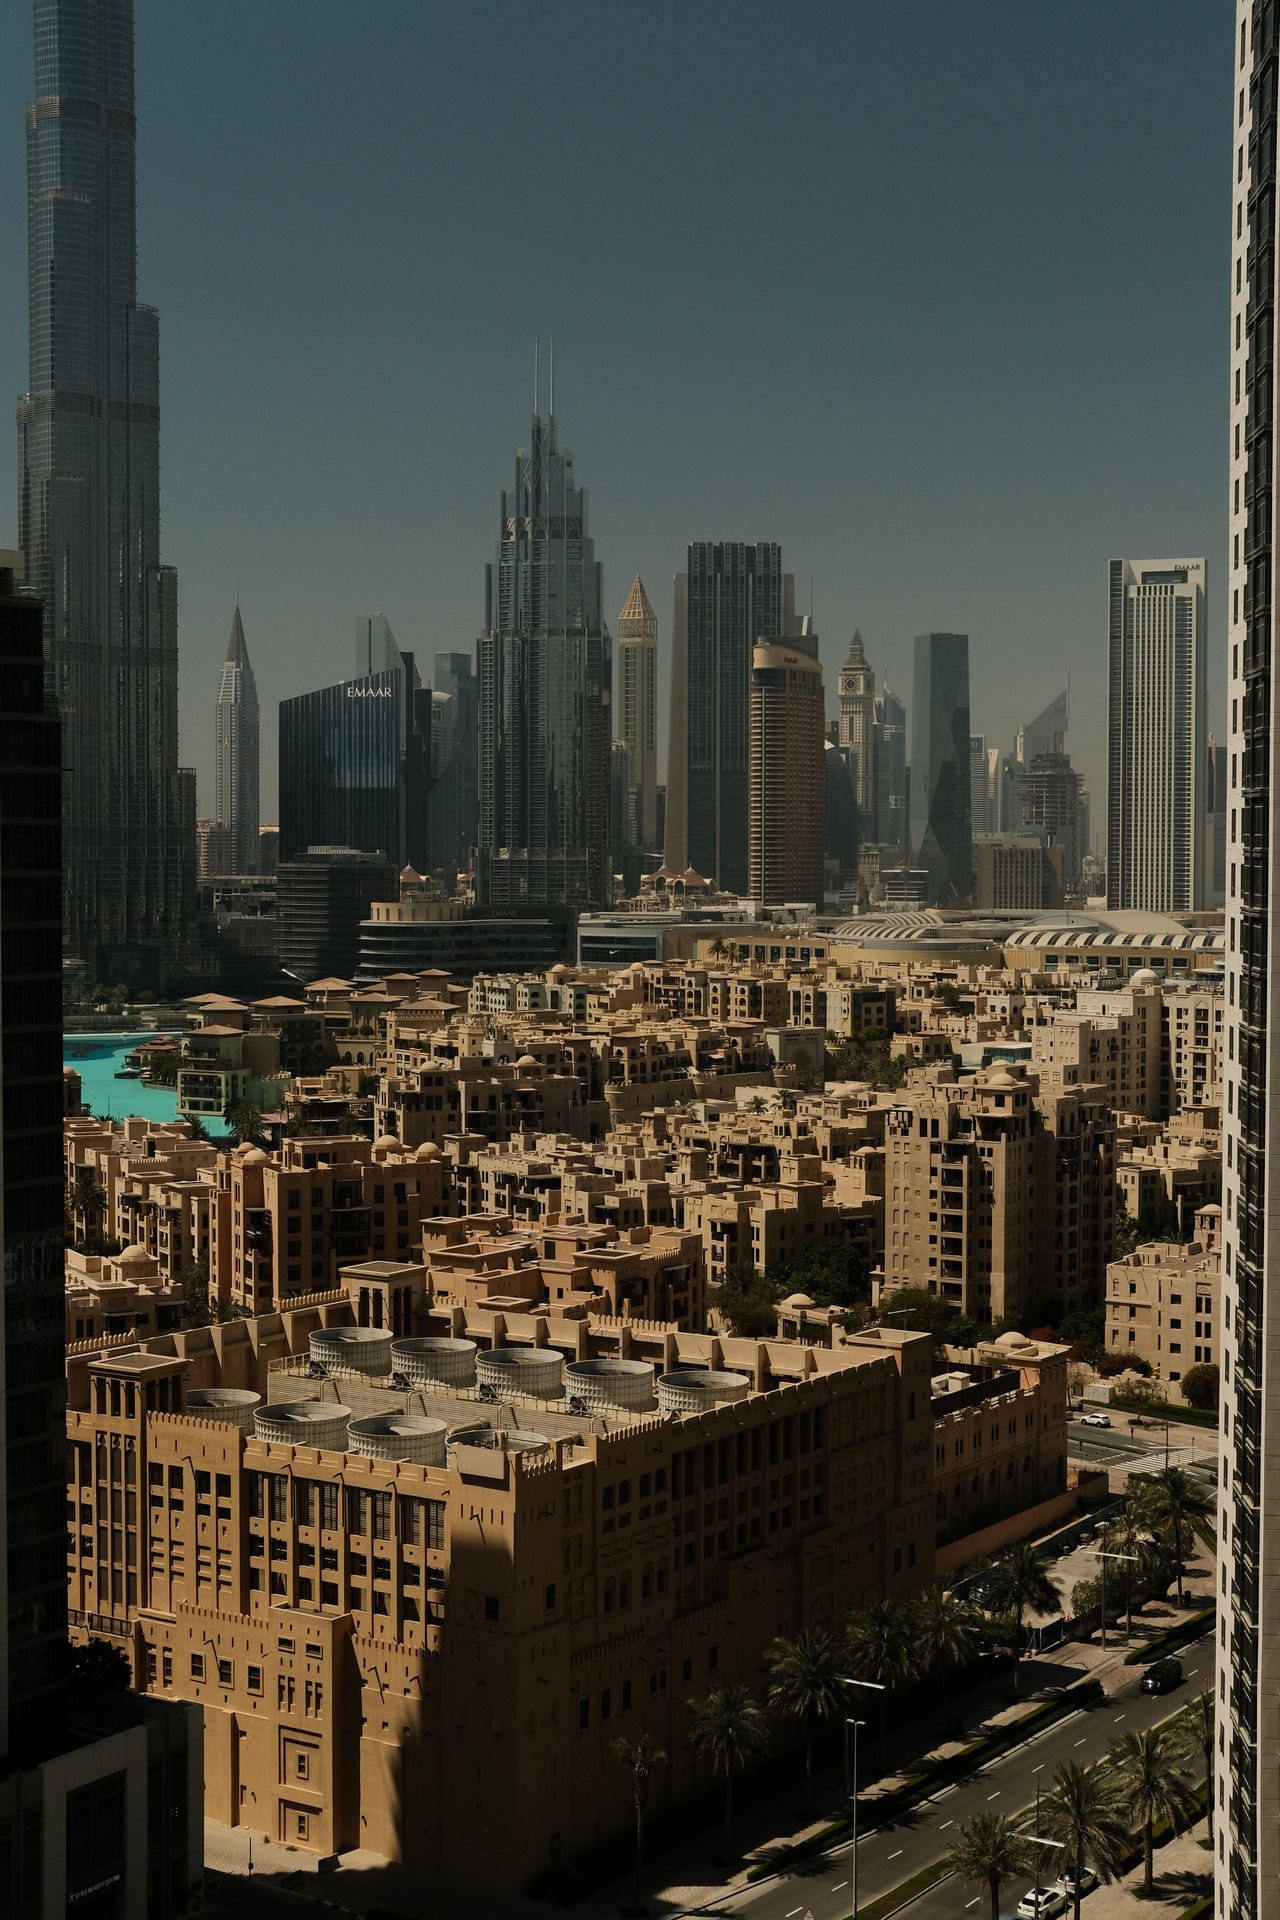
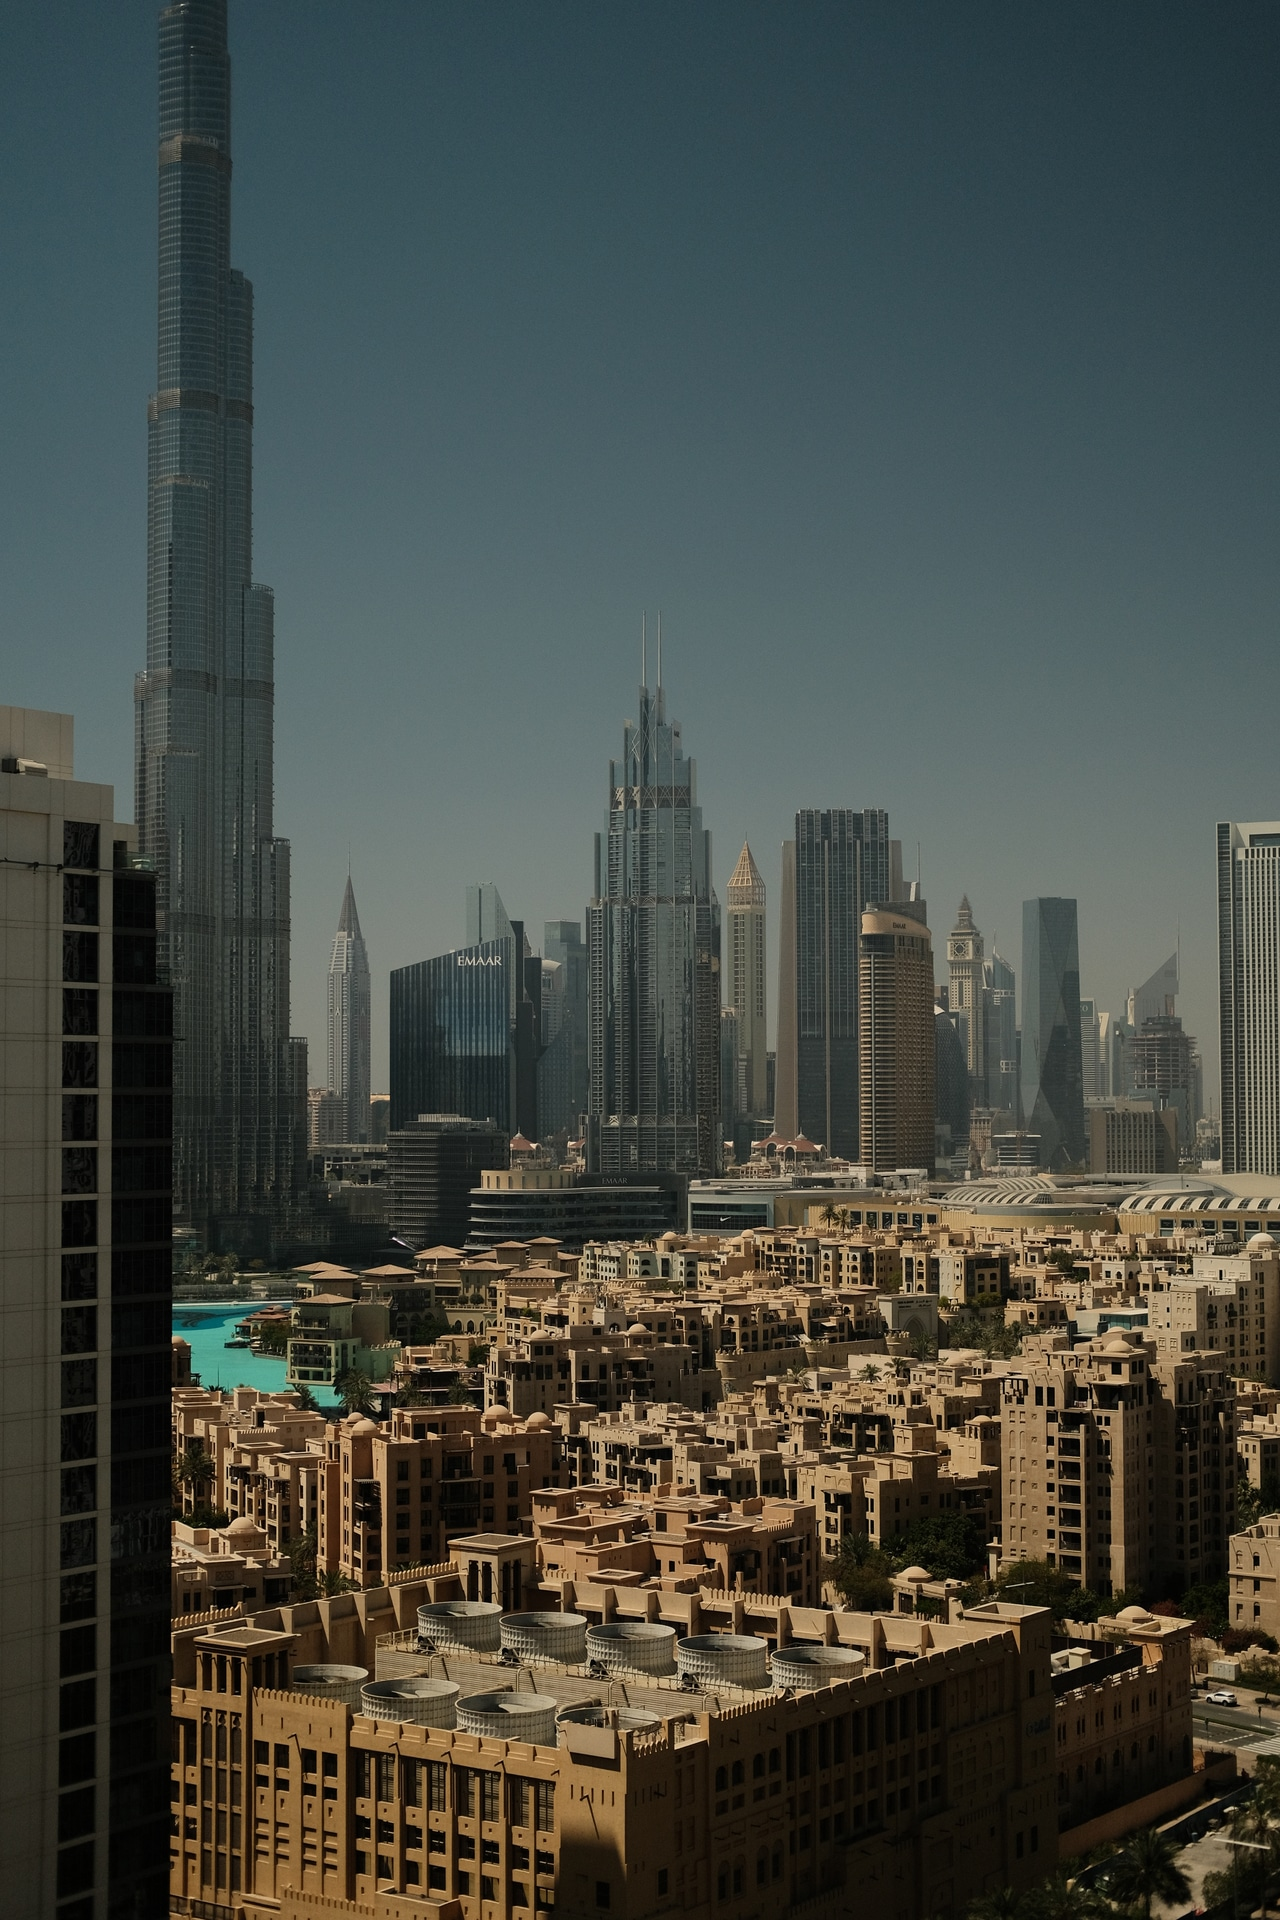
Swapped people and places section. Removed lens. Updated Dubai

diff --git a/src/app/page.tsx b/src/app/page.tsx
@@ -30,23 +30,24 @@ const itemVariants: Variants = {
 
 export default function Home() {
   const [selectedPost, setSelectedPost] = useState<Post | null>(null);
-  const [activeTab, setActiveTab] = useState<'places' | 'people'>('places');
+  const [activeTab, setActiveTab] = useState<'places' | 'people'>('people');
   const [visibleCount, setVisibleCount] = useState(PAGE_SIZE);
   const sentinelRef = useRef<HTMLDivElement>(null);
 
   const filteredPosts = posts.filter(post => post.category === activeTab);
+  const totalFilteredCount = filteredPosts.length;
   const visiblePosts = filteredPosts.slice(0, visibleCount);
-  const hasMore = visibleCount < filteredPosts.length;
+  const hasMore = visibleCount < totalFilteredCount;
 
-  // Reset visible count when tab changes
-  useEffect(() => {
+  const handleTabChange = (tab: 'places' | 'people') => {
+    setActiveTab(tab);
     setVisibleCount(PAGE_SIZE);
-  }, [activeTab]);
+  };
 
   // Load more posts when sentinel scrolls into view
   const loadMore = useCallback(() => {
-    setVisibleCount(prev => Math.min(prev + PAGE_SIZE, filteredPosts.length));
-  }, [filteredPosts.length]);
+    setVisibleCount(prev => Math.min(prev + PAGE_SIZE, totalFilteredCount));
+  }, [totalFilteredCount]);
 
   useEffect(() => {
     const sentinel = sentinelRef.current;
@@ -67,9 +68,24 @@ export default function Home() {
       <div className="max-w-4xl mx-auto mt-2">
         <div className="grid grid-cols-2 w-full">
           
+          {/* People Tab */}
+          <button 
+            onClick={() => handleTabChange('people')}
+            className={clsx(
+              "flex items-center justify-center gap-2 py-4 transition-colors duration-300 w-full outline-none",
+              "text-xs md:text-sm font-semibold tracking-widest uppercase",
+              activeTab === 'people' 
+                ? "border-b-2 border-white text-white" 
+                : "border-b-2 border-transparent text-zinc-500 hover:text-zinc-300"
+            )}
+          >
+            <User size={16} />
+            <span>People</span>
+          </button>
+
           {/* Places Tab */}
           <button 
-            onClick={() => setActiveTab('places')}
+            onClick={() => handleTabChange('places')}
             className={clsx(
               // Common styles
               "flex items-center justify-center gap-2 py-4 transition-colors duration-300 w-full outline-none",
@@ -84,21 +100,6 @@ export default function Home() {
           >
             <Mountain size={16} />
             <span>Places</span>
-          </button>
-
-          {/* People Tab */}
-          <button 
-            onClick={() => setActiveTab('people')}
-            className={clsx(
-              "flex items-center justify-center gap-2 py-4 transition-colors duration-300 w-full outline-none",
-              "text-xs md:text-sm font-semibold tracking-widest uppercase",
-              activeTab === 'people' 
-                ? "border-b-2 border-white text-white" 
-                : "border-b-2 border-transparent text-zinc-500 hover:text-zinc-300"
-            )}
-          >
-            <User size={16} />
-            <span>People</span>
           </button>
 
         </div>

diff --git a/src/components/ProfileHeader.tsx b/src/components/ProfileHeader.tsx
@@ -1,4 +1,3 @@
-import { MapPin, Link as LinkIcon } from "lucide-react";
 import Image from "next/image";
 
 export function ProfileHeader({ postCount }: { postCount: number }) {
@@ -26,7 +25,7 @@ export function ProfileHeader({ postCount }: { postCount: number }) {
         <div className="flex flex-col md:flex-row items-center gap-6 md:gap-8">
           {/* SERIF FONT HERE - Matches reference styling */}
           <h1 className="text-3xl md:text-4xl font-serif font-bold tracking-tight text-white">
-            Simeon Boshoff 🇿🇦
+            Simeon Boshoff 🇿🇦 🇦🇪
           </h1>
           
           {/* <div className="flex gap-3">
@@ -49,10 +48,7 @@ export function ProfileHeader({ postCount }: { postCount: number }) {
             <span className="font-bold text-white">Fujifilm X-T3</span> 
             <span className="text-zinc-400">Camera</span>
           </div>
-          <div className="flex flex-col md:flex-row items-center md:gap-1.5">
-            <span className="font-bold text-white">35mm F/2</span> 
-            <span className="text-zinc-400">Lens</span>
-          </div>
+
         </div>
 
         {/* Bio Section */}